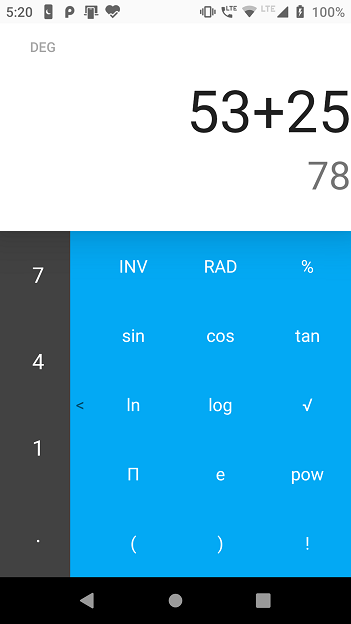
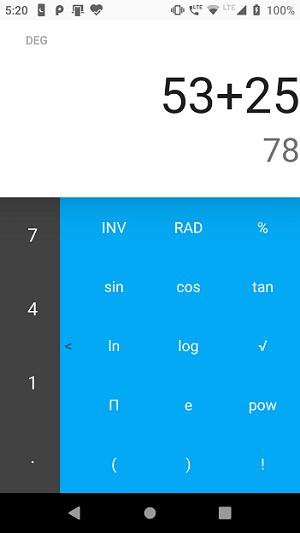
modified README.md file and resized screenshots

diff --git a/README.md b/README.md
@@ -2,9 +2,10 @@
 This is the clone for the Google Calculator on Android Marshmallow Platform 
 
 ## Screenshots -
-
-<img align="left" src="/app/screenshots/1.png?raw=true">
-<p align="center">
-  <img src="/app/screenshots/2.png?raw=true">
-</p>
-<img align="left" src="/app/screenshots/3.png?raw=true">
+<table>
+    <tr>
+        <td><img src="/app/screenshots/1.png?raw=true"></td>
+        <td><img src="/app/screenshots/2.png?raw=true"></td>
+        <td><img src="/app/screenshots/3.png?raw=true"></td>
+    </tr>
+</table>
